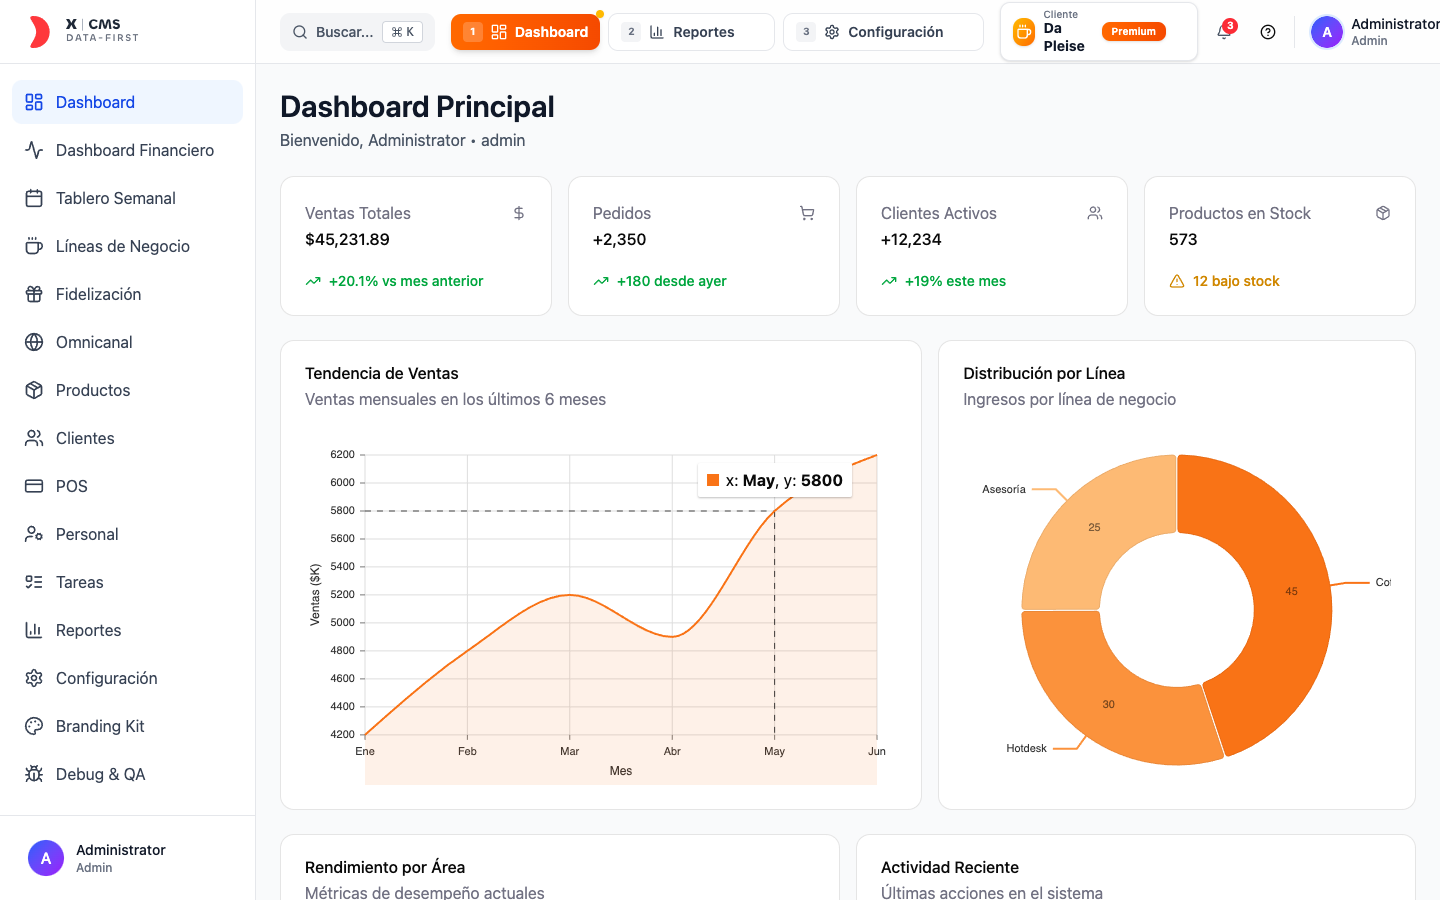
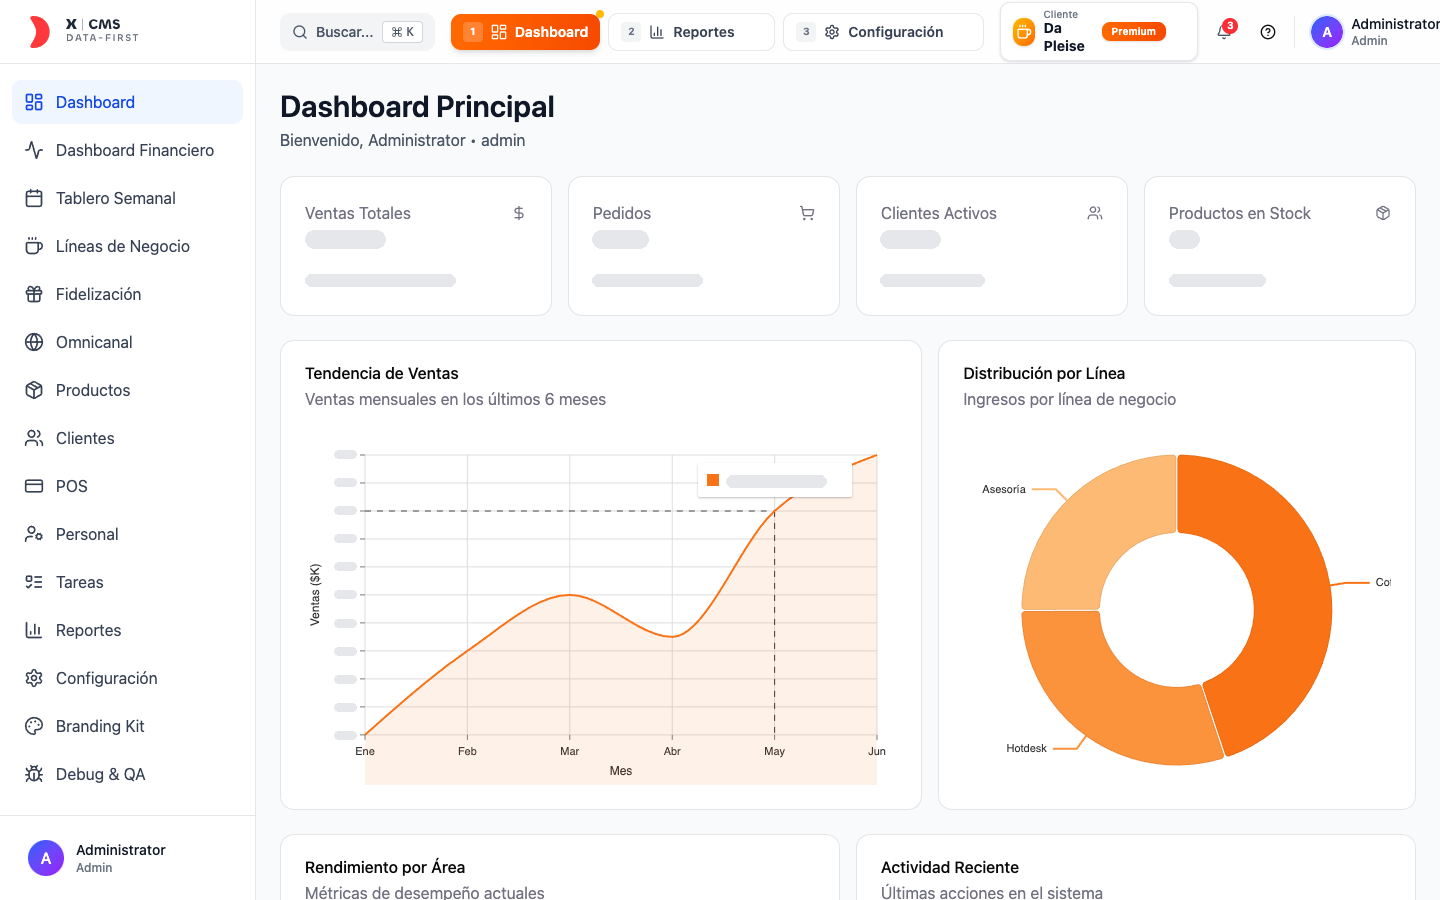
fix(assets): anonymize consulting dashboard label and mask x-cms/inventario metrics

diff --git a/src/lib/i18n/locales/es/consultoria.ts b/src/lib/i18n/locales/es/consultoria.ts
@@ -334,7 +334,7 @@ export const consultoria = {
         badge: 'Referencias',
         title: 'Pantallas de referencia',
         description:
-          'Dashboard CMS, consultoría GEES, casos SURA / Transvip / Karri y campañas. También social media y optimización de ads.',
+          'Dashboard CMS, dashboard de consultoría estratégica (concepto), casos SURA / Transvip / Karri y campañas. También social media y optimización de ads.',
         cta: 'Ver pantalla',
         ctaSecondary: 'Conversar',
         ctaMakeLink: 'Archivo editable (opcional)',
@@ -348,11 +348,11 @@ export const consultoria = {
             embedTitle: 'CMS · Dashboard',
           },
           'gees-propuesta': {
-            projectName: 'GEES · Consultoría',
+            projectName: 'Dashboard de consultoría estratégica · concepto',
             approach:
               'Propuesta de consultoría con dashboard de cotización y KPIs para decidir con stakeholders.',
             highlights: ['Consultoría', 'Cotización', 'KPIs', 'Stakeholders'],
-            embedTitle: 'GEES · Consultoría',
+            embedTitle: 'Dashboard de consultoría estratégica · concepto',
           },
           'sura-onboarding': {
             projectName: 'SURA · Onboarding',

diff --git a/src/lib/i18n/locales/en/consultoria.ts b/src/lib/i18n/locales/en/consultoria.ts
@@ -334,7 +334,7 @@ export const consultoria = {
         badge: 'References',
         title: 'Reference screens',
         description:
-          'CMS dashboard, GEES consulting, SURA / Transvip / Karri cases, and campaigns. Also social media and ads optimization.',
+          'CMS dashboard, strategic consulting dashboard (concept), SURA / Transvip / Karri cases, and campaigns. Also social media and ads optimization.',
         cta: 'View screen',
         ctaSecondary: 'Talk',
         ctaMakeLink: 'Editable file (optional)',
@@ -348,11 +348,11 @@ export const consultoria = {
             embedTitle: 'CMS · Dashboard',
           },
           'gees-propuesta': {
-            projectName: 'GEES · Consulting',
+            projectName: 'Strategic consulting dashboard · concept',
             approach:
               'Consulting proposal with quote dashboard and KPIs for stakeholder decisions.',
             highlights: ['Consulting', 'Quote', 'KPIs', 'Stakeholders'],
-            embedTitle: 'GEES · Consulting',
+            embedTitle: 'Strategic consulting dashboard · concept',
           },
           'sura-onboarding': {
             projectName: 'SURA · Onboarding',

diff --git a/src/data/consultoria-demos.ts b/src/data/consultoria-demos.ts
@@ -30,10 +30,10 @@ export const CONSULTORIA_DEMO_X_CMS = {
   poster: "xCmsDashboard",
 } as const satisfies ConsultoriaDemoConfig;
 
-/** GEES · consultoría / propuesta ejecutiva. Sites URL oculta (no iframe, no href público). */
+/** Dashboard de consultoría estratégica (concepto, anonimizado). Sites URL oculta (no iframe, no href público). */
 export const CONSULTORIA_DEMO_GEES = {
   id: "gees-propuesta",
-  label: "GEES · Consultoría",
+  label: "Dashboard de consultoría estratégica · concepto",
   poster: "geesDashboard",
 } as const satisfies ConsultoriaDemoConfig;
 
@@ -77,7 +77,7 @@ export const CONSULTORIA_DEMO_ADS = {
 
 /**
  * Orden en #consultoria-demo:
- * 1 CMS dashboard · 2 GEES consultoría · 3–n casos + ads
+ * 1 CMS dashboard · 2 consultoría estratégica (concepto) · 3–n casos + ads
  */
 export const CONSULTORIA_DEMOS: readonly ConsultoriaDemoConfig[] = [
   CONSULTORIA_DEMO_X_CMS,

diff --git a/src/data/value-content-arsenal.ts b/src/data/value-content-arsenal.ts
@@ -78,14 +78,14 @@ export const VALUE_PROOF_ITEMS: ValueProofItem[] = [
     copy: {
       es: {
         kindLabel: "Propuesta publicada",
-        title: "GEES · Dashboard de cotización",
+        title: "Dashboard de consultoría estratégica · concepto",
         outcome:
           "Propuesta ejecutiva — cotización digital, KPIs en tiempo real y decisión estratégica.",
         metric: "Dashboard",
       },
       en: {
         kindLabel: "Published proposal",
-        title: "GEES · Quoting dashboard",
+        title: "Strategic consulting dashboard · concept",
         outcome:
           "Executive proposal — digital quoting, real-time KPIs, and strategic decisions.",
         metric: "Dashboard",

diff --git a/src/data/image-registry.ts b/src/data/image-registry.ts
@@ -86,10 +86,10 @@ export const IMAGE_REGISTRY: ImageRegistryEntry[] = [
   entry(
     "consultoria.geesDashboard",
     "Consultoría",
-    "GEES · Propuesta dashboard",
+    "Dashboard de consultoría estratégica · concepto",
     "consultoria/gees-dashboard.png",
     portfolioImages.consultoria.geesDashboard,
-    "GEES — dashboard de cotización y KPIs (Figma Sites)"
+    "Dashboard de consultoría estratégica — concepto anonimizado (Figma Sites)"
   ),
   entry(
     "uxTools.journeyMap",

diff --git a/src/data/service-path-demos.ts b/src/data/service-path-demos.ts
@@ -39,8 +39,8 @@ export const SERVICE_PATH_DEMOS: readonly ServicePathDemo[] = [
     poster: portfolioImages.consultoria.geesDashboard,
     posterWebp: portfolioImages.consultoria.geesDashboardWebp,
     caption: {
-      es: "GEES · propuesta de diagnóstico",
-      en: "GEES · diagnostic proposal",
+      es: "Dashboard de consultoría estratégica · concepto",
+      en: "Strategic consulting dashboard · concept",
     },
     kicker: {
       es: "Path Diagnóstico · Radar · 1 min",

diff --git a/src/MAINTENANCE_GUIDE.md b/src/MAINTENANCE_GUIDE.md
@@ -296,7 +296,7 @@ Captura reproducible del POC:
 bash scripts/capture-ia-poc-screenshot.sh
 ```
 
-Captura GEES (Figma Sites → poster consultoría):
+Captura del dashboard de consultoría estratégica · concepto (Figma Sites → poster consultoría):
 
 ```bash
 bash scripts/capture-gees-screenshot.sh
